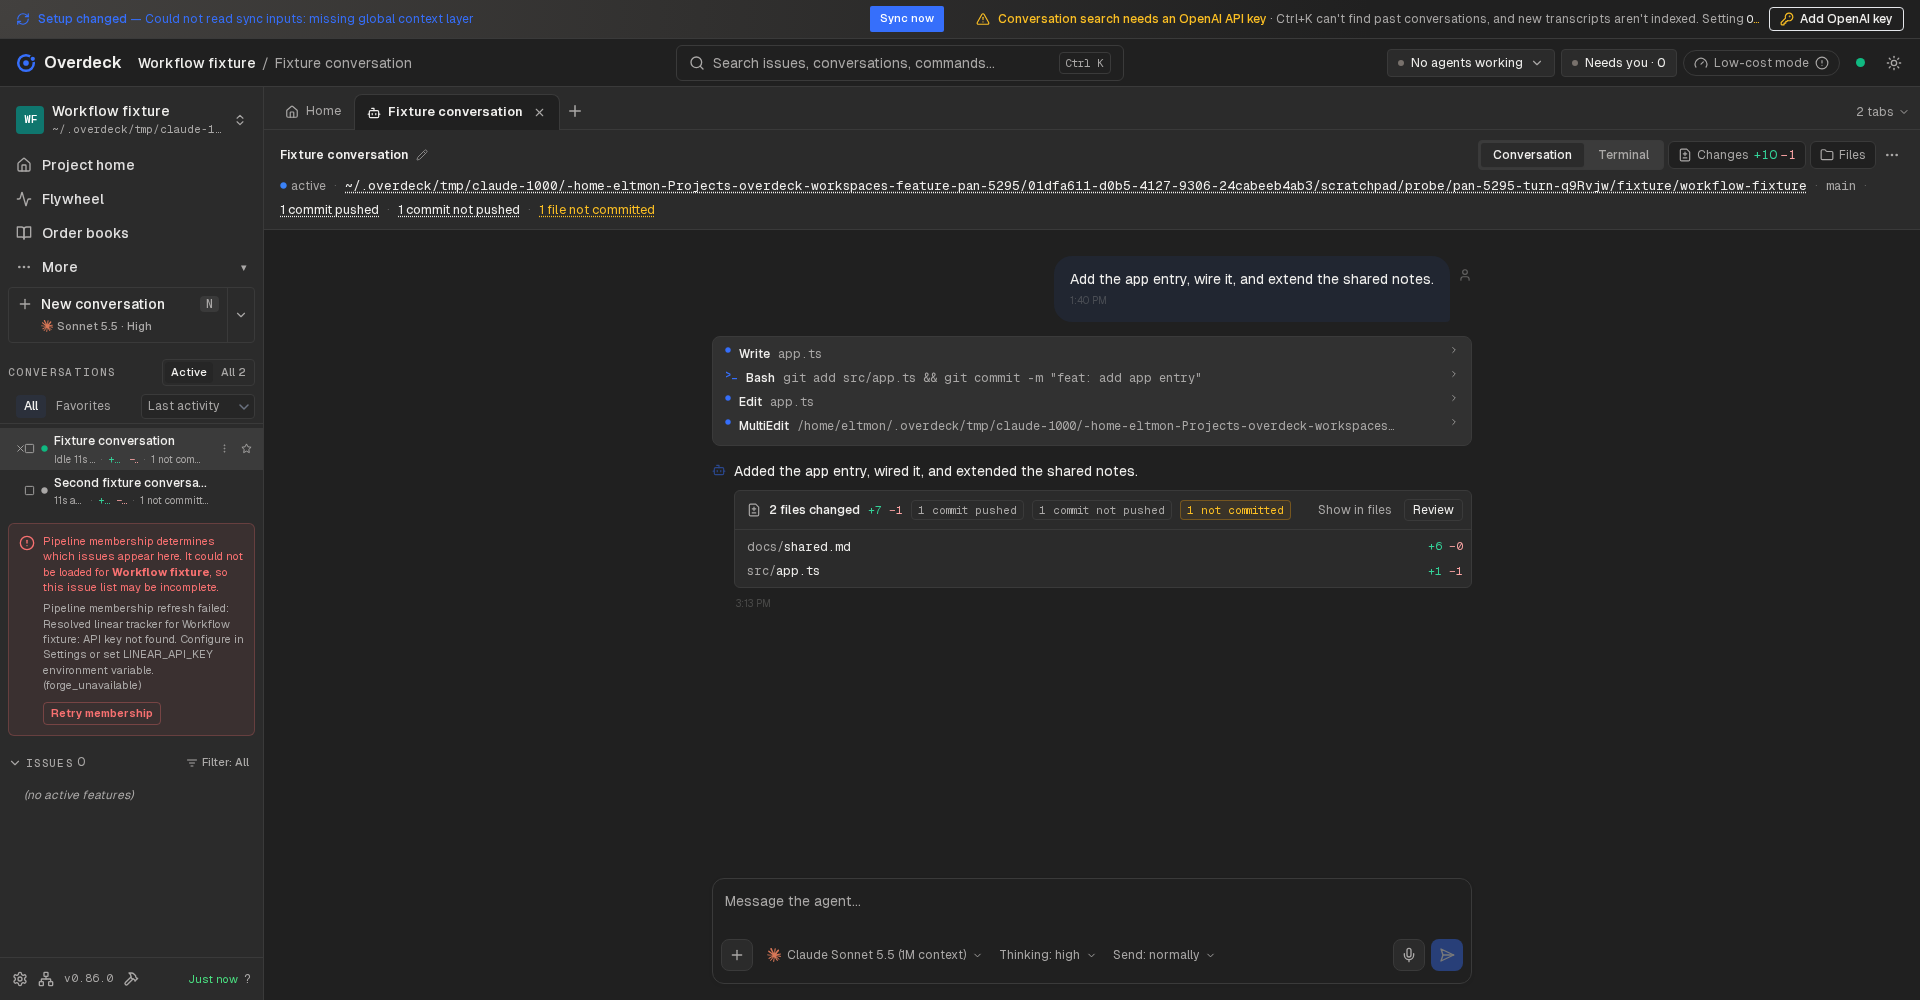
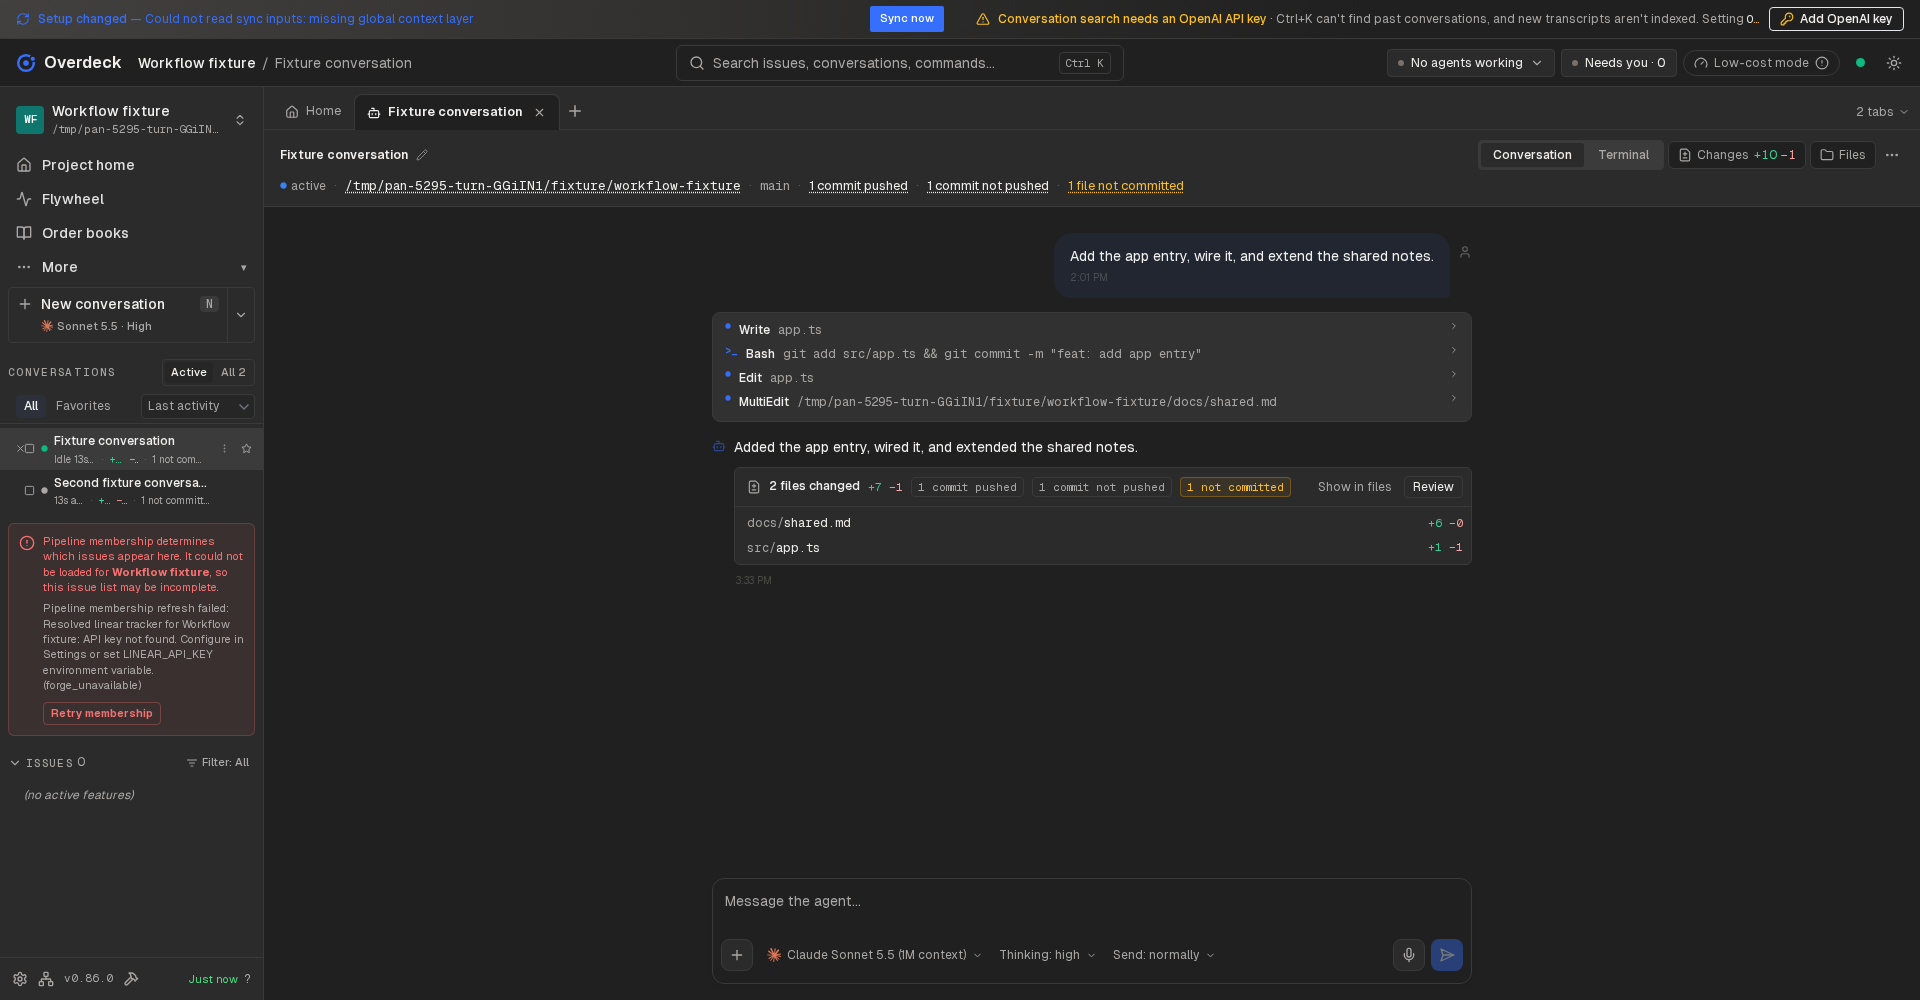
test(dashboard): cover Show in files and tab widths in the turn spec (PAN-5295)
Follow-up to turn-uat-spec. Adds an end-to-end check that Show in files opens
the Files tab with the "Showing files this conversation changed" filter line
(FR-2), and that a conversation tab computes min-width 120px and max-width
230px (AC-15). The screenshots are re-shot from a short /tmp fixture path
instead of the long scratchpad path. 8/8 pass after npm run build.

Overdeck-Agent: agent-pan-5295

diff --git a/src/dashboard/frontend/tests/pan-5295-conversation-turn.spec.ts b/src/dashboard/frontend/tests/pan-5295-conversation-turn.spec.ts
@@ -176,6 +176,16 @@ test('Review opens the dock diff view on the turn\'s first file with i/N', async
   await expect(dock(page).getByTestId('dock-diff-position')).toHaveText(`1/${numbers.files}`, { timeout: 30_000 });
 });
 
+test('Show in files opens the Files tab filtered to this conversation', async ({ page }) => {
+  await openDeck(page);
+  await openConversation(page);
+  await closeDock(page);
+
+  await card(page).getByRole('button', { name: 'Show in files' }).click();
+  await expect(dock(page).getByRole('tab', { name: /^Files/ })).toHaveAttribute('aria-selected', 'true', { timeout: 30_000 });
+  await expect(dock(page).getByTestId('explorer-filter-line')).toContainText('Showing files this conversation changed', { timeout: 30_000 });
+});
+
 test('the docs/shared.md chip in a tool row opens its diff in the dock', async ({ page }) => {
   await openDeck(page);
   await openConversation(page);
@@ -223,6 +233,12 @@ test('tabs show no shortcut chip or Chat <id> label, and N tabs lists them', asy
     expect(text).not.toContain('⌘');
     expect(text).not.toMatch(/^Chat /);
   }
+  // D2-16: a conversation tab clamps to 120–230 px.
+  const widths = await page.getByRole('tab', { name: /Fixture conversation/ }).first().evaluate((el) => {
+    const style = getComputedStyle(el);
+    return { min: style.minWidth, max: style.maxWidth };
+  });
+  expect(widths).toEqual({ min: '120px', max: '230px' });
   await page.getByRole('button', { name: `${count} tabs, list all tabs` }).click();
   await expect(page.getByRole('menu', { name: 'All tabs' }).getByRole('menuitemradio')).toHaveCount(count);
   await page.keyboard.press('Escape');
